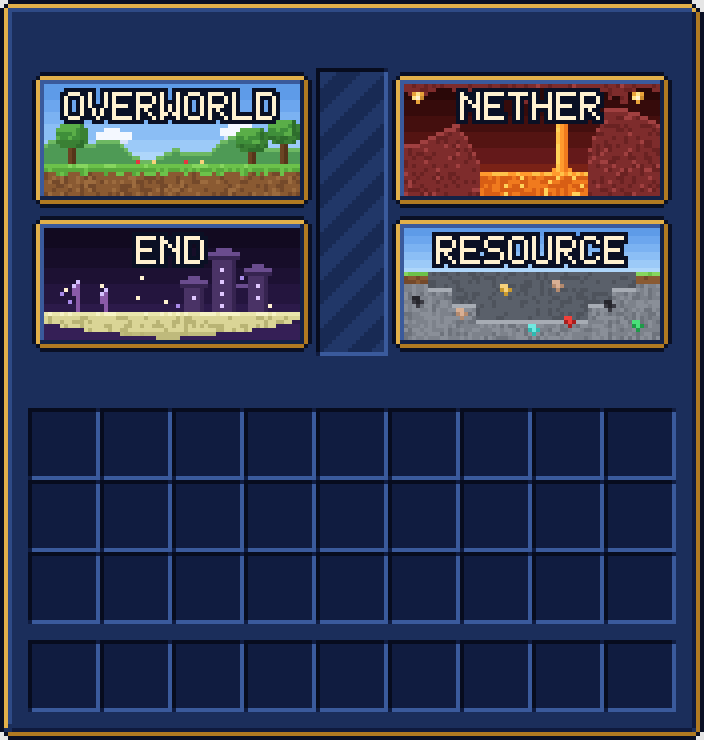
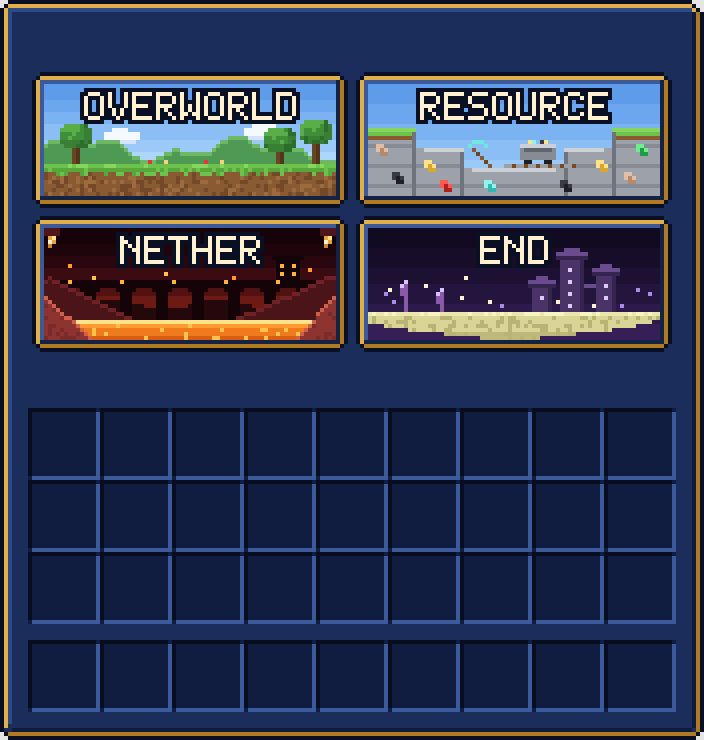
feat(menus): rtp picker tiles meet in the middle, new nether and quarry art
Tiles reorder to Overworld/Resource on top, Nether/End below. New scene option reach (left/right) draws a tile half a cell past its click cells so the two columns meet with a 2 px gap; validation keeps the reached column free of items. Nether is now a layered vista with a fortress bridge over a lava sea; Resource is an open-pit quarry with ledges, ore veins, a minecart and a pickaxe.

Changed region(s): [[0.0625, 0.0932, 0.9375, 0.4973]]

diff --git a/menus/figma/lib.js b/menus/figma/lib.js
@@ -399,7 +399,6 @@ function band(r, x0, y0, w, h, ramp) {  // vertical gradient over the top h rows
   for (let j = 0; j < h; j++) r.rect(x0, y0 + j, w, 1, ramp[Math.min(ramp.length - 1, Math.floor(j / h * ramp.length))]);
 }
 const DAY = ['5E9BE8', '6CA6EE', '7BB2F2', '8BBEF5', '9CCAF8', 'AED6FA'];
-const RACK = ['A04040', '6A2222', '7E2C2C'];
 const SCENES = {
   overworld(r, x0, y0, w, h) {
     const g = h - 8, set = (x, y, c) => r.set(x0 + x, y0 + y, c);
@@ -430,28 +429,39 @@ const SCENES = {
     }
     for (const fx of [Math.round(w * 0.36), Math.round(w * 0.55)]) { set(fx, g - 1, 'E8343F'); set(fx + 4, g - 1, 'F7D27A'); }
   },
-  nether(r, x0, y0, w, h) {
-    const set = (x, y, c) => r.set(x0 + x, y0 + y, c), lava = h - 6, rack = (x, y) => {
-      const n = hash(x, y, 3); return n < 0.08 ? RACK[0] : n < 0.3 ? RACK[1] : RACK[2];
-    };
-    band(r, x0, y0, w, h, ['2A0808', '360B0B', '440F0E', '541412', '64191A', '7A2216', '8E2E14']);
-    for (let x = 0; x < w; x++) for (let y = lava; y < h; y++) {  // lava sea, the cliffs are drawn over it
+  nether(r, x0, y0, w, h) {  // layered cliffs darker toward the back, a fortress bridge, a lava sea
+    const set = (x, y, c) => r.set(x0 + x, y0 + y, c), sea = h - 5;
+    band(r, x0, y0, w, sea, ['16030A', '1E050C', '2A070E', '3A0B10', '521212', '6E1A14', '8A2A16']);
+    for (const [ex, ey, c] of [[6, 9, 'FF9A2E'], [12, 12, 'FFC24A'], [66, 10, 'FF9A2E'], [30, 11, 'FFC24A'], [47, 12, 'FF9A2E']]) set(Math.round(ex / 73 * w), ey, c);  // embers
+    const ridge = (x, base, a, f, p) => Math.round(base + a * Math.sin(x * f + p));
+    for (let x = 0; x < w; x++) for (let y = ridge(x, 19, 1.5, 0.23, 1); y < sea; y++) set(x, y, '24080C');  // far ridge
+    const deck = 13, tx = Math.round(w * 0.8), brick = '140408';  // fortress bridge against the glow: deck, arches, a tower
+    r.rect(x0, y0 + deck, w, 2, brick);
+    for (let px = 1; px < w; px += 9) {
+      r.rect(x0 + px, y0 + deck + 2, 3, sea - deck - 2, brick);
+      set(px - 1, deck + 2, brick); set(px + 3, deck + 2, brick);  // arch shoulders
+    }
+    r.rect(x0 + tx, y0 + deck - 5, 6, 5, brick); r.rect(x0 + tx - 1, y0 + deck - 6, 8, 1, brick);
+    for (const [wx, wy] of [[1, 1], [4, 1], [1, 3], [4, 3]]) set(tx + wx, deck - 5 + wy, 'FFB040');
+    for (let x = 6; x < w; x += 13) set(x, deck, 'FFB040');  // lit windows along the deck
+    const mid = (x, ox, d) => 12 + Math.round(Math.abs(x - ox) * d);
+    for (let x = 0; x < w; x++) {  // middle cliffs, left and right
+      const top = Math.min(mid(x, 1, 0.5), mid(x, w - 2, 0.45));
+      for (let y = top; y < sea; y++) set(x, y, y === top ? '6E2226' : '4A1418');
+    }
+    r.rect(x0, y0 + sea, w, 1, 'FFE38A');  // lava: bright edge, then warm bands with ripples
+    for (let y = sea + 1; y < h; y++) for (let x = 0; x < w; x++) {
       const n = hash(x, y, 5);
-      set(x, y, y === lava ? (n < 0.5 ? 'FFC24A' : 'FF9A2E') : n < 0.12 ? 'FFD25A' : n < 0.5 ? 'F07A1E' : 'D85E14');
+      set(x, y, n < 0.1 ? 'FFC24A' : y === sea + 1 ? 'FF9A2E' : y < h - 1 ? 'F07A1E' : 'D85E14');
     }
-    const fx = Math.round(w * 0.6);  // lava fall from the ceiling into the sea
-    for (let y = 3; y < lava; y++) { set(fx, y, hash(fx, y, 6) < 0.5 ? 'FFD25A' : 'FFC24A'); set(fx + 1, y, 'FF9A2E'); set(fx + 2, y, 'F07A1E'); }
-    for (const dx of [-1, 3]) set(fx + dx, lava - 1, 'FF9A2E');  // splash
-    const lEdge = Math.round(w * 0.3), rEdge = Math.round(w * 0.7);
-    for (let x = 0; x < w; x++) {
-      const c = 2 + Math.round(1.2 * Math.sin(x * 0.5)) + (hash(x, 0, 4) < 0.2 ? 2 : 0);  // ceiling with drips
-      for (let y = 0; y < c; y++) set(x, y, rack(x, y));
-      const l = Math.round(lava - 10 + 3 * Math.cos(x * 0.18));  // cliff tops slope down into the lava
-      const top = x < lEdge ? l + Math.max(0, x - lEdge + 6) * 2 : x > rEdge ? l - 3 + Math.max(0, rEdge + 5 - x) * 2 : h;
-      for (let y = Math.max(c, top); y < h; y++) set(x, y, y === top ? RACK[0] : rack(x, y));
+    for (let x = 0; x < w; x++) {  // front cliffs, brightest, with a lava-lit rim
+      const top = Math.min(17 + Math.round(x * 0.9), 17 + Math.round((w - 1 - x) * 1.1));
+      for (let y = top; y < h; y++) set(x, y, y === top ? 'D0604A' : hash(x, y, 3) < 0.2 ? '7A2A28' : '8E3430');
     }
-    for (const [gx, gy] of [[2, 2], [w - 7, 2]]) for (const [i, j, c] of [[0, 0, 'E8A33A'], [1, 0, 'FFE38A'], [2, 0, 'E8A33A'],
-      [0, 1, 'FFE38A'], [1, 1, 'FFF1D0'], [2, 1, 'C98A2E'], [1, 2, 'E8A33A']]) set(gx + i, gy + j, c);  // glowstone
+    for (const gx of [0, w - 4]) {  // glowstone hanging from netherrack in the top corners
+      r.rect(x0 + gx, y0, 4, 2, '4E161A');
+      for (const [i, j, c] of [[1, 2, 'E8A33A'], [2, 2, 'FFE38A'], [1, 3, 'FFF1D0'], [2, 3, 'E8A33A'], [1, 4, 'C98A2E']]) set(gx + i, j, c);
+    }
   },
   end(r, x0, y0, w, h) {
     const set = (x, y, c) => r.set(x0 + x, y0 + y, c), g = h - 7;
@@ -480,36 +490,58 @@ const SCENES = {
       }
     }
   },
-  quarry(r, x0, y0, w, h) {
-    const set = (x, y, c) => r.set(x0 + x, y0 + y, c), sky = 11, step = 6;
-    band(r, x0, y0, w, sky, DAY);
-    for (let x = 0; x < w; x++) {  // a pit cut in terraces, 4 px per step
-      const k = Math.min(Math.floor(x / step), Math.floor((w - 1 - x) / step), 3), top = sky + 4 * k;
-      for (let y = sky; y < h; y++) {
-        const n = hash(x, y, 9);
-        if (y < top) set(x, y, n < 0.3 ? '4E535C' : '5A606A');  // back wall
-        else if (k === 0 && y === top) set(x, y, n < 0.3 ? '86D65E' : '6CC24A');
-        else if (k === 0 && y <= top + 2) set(x, y, n < 0.4 ? '74492A' : '8A5A32');
-        else if (y === top) set(x, y, 'A7ACB4');
-        else set(x, y, n < 0.2 ? '6E737C' : n < 0.6 ? '8A8F98' : '7D828B');
+  quarry(r, x0, y0, w, h) {  // an open pit in cross-section: grass rim, stone ledges down to a floor, ores, cart, pickaxe
+    const set = (x, y, c) => r.set(x0 + x, y0 + y, c), rim = 11, step = 5, sw = 12;
+    band(r, x0, y0, w, h, DAY);
+    const level = x => Math.min(Math.floor(x / sw), Math.floor((w - 1 - x) / sw), 2);  // 0 rim, 1 ledge, 2 floor
+    for (let x = 0; x < w; x++) {
+      const k = level(x), top = rim + step * k;
+      for (let y = rim; y < h; y++) {
+        if (y < top) continue;  // open air over the lower steps
+        if (k === 0 && y < top + 3) set(x, y, y === top ? '86D65E' : y === top + 1 ? '6CC24A' : '8A5A32');
+        else if (y === top) set(x, y, 'CDD1D7');
+        else set(x, y, (y - top) % 5 === 4 ? '868B94' : '9DA2AA');
       }
     }
-    const ORE = { coal: ['26262C', '3A3A42'], iron: ['D8AF93', 'B48A6E'], gold: ['F7D27A', 'C99A2E'], diamond: ['6FE8E0', '2EB8B0'],
-      redstone: ['F0403A', 'A81E1E'], emerald: ['4AE07A', '1E9A48'] };
-    for (const [ore, fx, oy] of [['coal', 0.04, 17], ['iron', 0.22, 20], ['gold', 0.4, 14], ['diamond', 0.5, 24],
-      ['redstone', 0.66, 22], ['coal', 0.82, 18], ['emerald', 0.93, 23], ['iron', 0.6, 13]]) {
-      const ox = Math.round(fx * (w - 3)), [hi, lo] = ORE[ore];
-      for (const [i, j, c] of [[0, 0, hi], [1, 0, hi], [0, 1, lo], [1, 1, hi], [2, 1, lo], [1, 2, lo]]) set(ox + i, Math.min(h - 1, oy + j), c);
+    for (let x = 1; x < w; x++) {  // risers: the upper step's edge column in shade, the lower ledge darker at its foot
+      const a = level(x - 1), b = level(x);
+      if (a === b) continue;
+      const hiX = a > b ? x : x - 1, dir = a > b ? -1 : 1, lowTop = rim + step * Math.max(a, b);
+      for (let y = rim + step * Math.min(a, b) + 1; y < h; y++) set(hiX, y, '6E737C');
+      for (let i = 1; i <= 2; i++) set(hiX + dir * i, lowTop, '9DA2AA');
     }
+    const ORE = { coal: ['3A3A42', '1E1E24'], iron: ['E2BFA4', 'B48A6E'], gold: ['FFE38A', 'D9A62E'], diamond: ['8FF4EC', '2EB8B0'],
+      redstone: ['FF5A50', 'B01E1E'], emerald: ['6AF08E', '1E9A48'] };
+    const vein = (ore, ox, oy) => { const [hi, lo] = ORE[ore];
+      for (const [i, j, c] of [[0, 0, hi], [1, 0, hi], [0, 1, hi], [1, 1, lo], [2, 1, hi], [1, 2, lo], [2, 2, lo]]) set(ox + i, oy + j, c); };
+    vein('iron', 2, 15); vein('coal', 6, 22); vein('gold', 14, 19); vein('redstone', 18, 24); vein('diamond', 29, 24);
+    vein('coal', w - 25, 24); vein('gold', w - 16, 19); vein('emerald', w - 6, 15); vein('iron', w - 9, 22);
+    const rx = Math.round(w * 0.52), floor = rim + step * 2;  // rail with a loaded minecart on the floor
+    for (let x = rx - 4; x < rx + 14; x++) set(x, floor - 1, x % 3 ? '9AA0A8' : '7A4A1E');
+    r.rect(x0 + rx, y0 + floor - 6, 9, 1, 'CDD1D7'); r.rect(x0 + rx, y0 + floor - 5, 9, 3, '868B94');
+    r.rect(x0 + rx + 1, y0 + floor - 5, 7, 1, '5F656F');
+    for (const [i, c] of [[2, 'FFE38A'], [3, '8FF4EC'], [5, '3A3A42'], [6, 'FFE38A']]) set(rx + i, floor - 7, c);
+    for (const i of [1, 6]) { set(rx + i, floor - 2, '1E1E24'); set(rx + i + 1, floor - 2, '1E1E24'); }
+    const px = 2 * sw + 2;  // pickaxe leaning on the ledge riser
+    for (let i = 0; i < 5; i++) set(px + 4 - i, floor - 1 - i, i % 2 ? '6B4423' : '8A5A32');
+    for (const [i, j] of [[-1, -6], [0, -7], [1, -7], [2, -7], [3, -6]]) set(px + i, floor + j, '6FE8E0');
   },
 };
 function outlinedText(r, s, x, y) {  // cream caps with a full 1 px outline, readable over any picture
   for (let j = -1; j <= 1; j++) for (let i = -1; i <= 1; i++) if (i || j) drawText(r, s, x + i, y + j, C.O);
   drawText(r, s, x, y, C.cream);
 }
-function scene(r, name, label, cx, cy, cw, ch) {
-  const paint = SCENES[name]; if (!paint) throw new Error('scene ' + name);
-  const x = cellX(cx) + 1, y = cellY(cy) + 1, w = CELL * cw - 2, h = CELL * ch - 2;
+// reach 'left' / 'right': the tile is drawn half a cell (9 px) past its cells on that side, so two tiles reaching into
+// the same column meet with the usual 2 px gap; the click cells stay whole (spec validation keeps that column empty).
+const REACH = CELL / 2;
+function sceneBox(e) {
+  const r = e.reach ? REACH : 0;
+  return { x: cellX(e.x) + 1 - (e.reach === 'left' ? r : 0), y: cellY(e.y) + 1, w: CELL * (e.w || 1) - 2 + r, h: CELL * (e.h || 1) - 2 };
+}
+function scene(r, e) {
+  const paint = SCENES[e.style]; if (!paint) throw new Error('scene ' + e.style);
+  if (e.reach && e.reach !== 'left' && e.reach !== 'right') throw new Error('scene reach ' + e.reach);
+  const { x, y, w, h } = sceneBox(e), label = e.label, cw = e.w || 1;
   if (textWidth(label) > w - 10) throw new Error('label too wide for ' + cw + ' cells: ' + label);
   plate(r, x, y, w, h, CARD.navy);
   paint(r, x + 3, y + 3, w - 6, h - 6);
@@ -527,7 +559,7 @@ function drawElement(r, e) {
   else if (e.type === 'slot') slotRings(r, e.x, e.y, w, h, e.style);
   else if (e.type === 'arrow') { arrow(r, e.icon, e.x, e.y); clearStarsAround(r, cellX(e.x) + 1, cellY(e.y) + 1, 16, 16); }
   else if (e.type === 'text') text(r, e.label, e.color, e.x, e.y, w);
-  else if (e.type === 'scene') { scene(r, e.style, e.label, e.x, e.y, w, h); clearStarsAround(r, cellX(e.x) + 1, cellY(e.y) + 1, CELL * w - 2, CELL * h - 2); }
+  else if (e.type === 'scene') { scene(r, e); const b = sceneBox(e); clearStarsAround(r, b.x, b.y, b.w, b.h); }
   else throw new Error('element type ' + e.type);
 }
 function drawMenu(r, menu) {

diff --git a/menus/build.py b/menus/build.py
@@ -71,9 +71,10 @@ ARROW_ICONS = ('up', 'down')
 SLOT_STYLES = ('pedestal', 'reel')  # absent = plain vanilla slot rings
 TEXT_COLORS = ('cream', 'gold')
 SCENE_STYLES = ('overworld', 'nether', 'end', 'quarry')  # landscape painters in lib.js SCENES
+REACH_SIDES = ('left', 'right')  # a scene drawn half a cell past its cells on that side (lib.js sceneBox)
 LABEL_MAX = {2: 4, 3: 7, 4: 10}  # button width in cells -> max label characters
 # a typo such as "shift_rigth" must fail validation instead of silently dropping the action
-ELEMENT_KEYS = {'type', 'x', 'y', 'w', 'h', 'style', 'color', 'icon', 'label', 'item'}
+ELEMENT_KEYS = {'type', 'x', 'y', 'w', 'h', 'style', 'color', 'icon', 'label', 'item', 'reach'}
 ITEM_KEYS = {'key', 'name', 'lore', 'material', *ACTIONS}
 MENU_KEYS = {'id', 'glyph', 'rows', 'title', 'open_command', 'elements', 'dynamic', 'renderer'}
 SPEC_KEYS = {'menus', 'commands'}
@@ -187,8 +188,13 @@ def _check_elements(m, ids, mods):
             label = e.get('label')
             need(i, isinstance(label, str) and label, 'label is required')
             need(i, w >= 2 and h >= 2, 'w and h must be >= 2')
+            reach = e.get('reach')
+            need(i, reach is None or reach in REACH_SIDES, f'reach must be one of {REACH_SIDES}')
+            need(i, reach != 'left' or x >= 1, 'reach left needs a column to the left')
+            need(i, reach != 'right' or x + w <= 8, 'reach right needs a column to the right')
             # 5 px caps + 1 px spacing must fit the picture (lib.js scene(): tile width - 10)
-            need(i, len(label) <= (CELL * w - 11) // 6, f'label too long ({len(label)} > {(CELL * w - 11) // 6} for w={w})')
+            most = (CELL * w + (CELL // 2 if reach else 0) - 11) // 6
+            need(i, len(label) <= most, f'label too long ({len(label)} > {most} for w={w})')
         elif t == 'arrow':
             need(i, e.get('icon') in ARROW_ICONS, f'icon must be one of {ARROW_ICONS}')
             need(i, w == 1 and h == 1, 'w and h must be 1')
@@ -196,6 +202,7 @@ def _check_elements(m, ids, mods):
             need(i, e['style'] in SLOT_STYLES, f'style must be one of {SLOT_STYLES}')
             # the reel highlights its middle cell, so it needs one
             need(i, e['style'] != 'reel' or (h == 1 and w % 2 == 1), 'a reel must be one row with an odd width')
+        need(i, t == 'scene' or 'reach' not in e, 'reach is only allowed on scene elements')
         if 'item' not in e:
             continue
         need(i, t in CLICKABLE, f'type {t} cannot carry an item')
@@ -230,6 +237,15 @@ def _check_elements(m, ids, mods):
         for i, e in enumerate(els):
             k = e.get('item', {}).get('key', '')
             need(i, not reserved.fullmatch(k), f'item key {k!r} is reserved for menus/warps_sync.py')
+    # a scene's reach covers half of the next column: only another scene reaching in from the other side may share it
+    for i, e in enumerate(els):
+        if e['type'] != 'scene' or 'reach' not in e:
+            continue
+        col = e['x'] - 1 if e['reach'] == 'left' else e['x'] + e['w']
+        half = {(col, r) for r in range(e['y'], e['y'] + e['h'])}
+        for j, o in enumerate(els):
+            ok = o['type'] == 'scene' and o.get('reach') == ('right' if e['reach'] == 'left' else 'left')
+            need(i, j == i or ok or not half & set(cells(o)), f'reach overlaps element {j}')
     # rule 3: items never share a cell; a hole never sits under a drawn button
     items = [(i, set(cells(e))) for i, e in enumerate(els) if 'item' in e]
     for (_, a), (j, b) in itertools.combinations(items, 2):
@@ -484,7 +500,7 @@ def layouts(spec_path=SPEC, mod_out=MOD_OUT):
 # Only what lib.js/menus.js draw from: item names, lore, clicks, glyphs and commands never reach Figma, and embedding
 # them pushed menus.run.js past FIGMA_MAX.
 FIGMA_MENU_KEYS = ('id', 'rows', 'title', 'open_command')
-FIGMA_ELEMENT_KEYS = ('type', 'x', 'y', 'w', 'h', 'style', 'color', 'icon', 'label')
+FIGMA_ELEMENT_KEYS = ('type', 'x', 'y', 'w', 'h', 'style', 'color', 'icon', 'label', 'reach')
 
 
 PREVIEW_STEP = WIDTH * 4 + 80  # menus.js lays the 4x previews side by side
@@ -717,6 +733,14 @@ def selftest():
     _rejects(mutated(lambda m: m['elements'].append({**sc, 'label': 'ABCDEFGHIJK'})), 'label too long')
     _rejects(mutated(lambda m: m['elements'].append({**sc, 'h': 1})), 'w and h must be >= 2')
     _rejects(mutated(lambda m: m['elements'].extend([sc, {'type': 'slot', 'x': 1, 'y': 1}])), 'hole sits under')
+    pair = [{**sc, 'reach': 'right'}, {**sc, 'x': 5, 'reach': 'left', 'item': {'key': 's2', 'name': 'n'}}]
+    mutated(lambda m: m['elements'].extend(pair))()  # two scenes meeting in column 4
+    _rejects(mutated(lambda m: m['elements'].append({**sc, 'reach': 'up'})), 'reach must be')
+    _rejects(mutated(lambda m: m['elements'].append({**sc, 'reach': 'left'})), 'reach left needs')
+    _rejects(mutated(lambda m: m['elements'].append({**sc, 'x': 5, 'reach': 'right'})), 'reach right needs')
+    _rejects(mutated(lambda m: btn(m).update(reach='left')), 'only allowed on scene')
+    _rejects(mutated(lambda m: m['elements'].extend([{**sc, 'reach': 'right'}, {'type': 'slot', 'x': 4, 'y': 1}])),
+             'reach overlaps')
     _rejects(mutated(lambda m: m['elements'].append({'type': 'slot', 'style': 'reel', 'x': 0, 'y': 0, 'w': 4})), 'odd width')
     _rejects(mutated(lambda m: m['elements'].extend([{'type': 'slot', 'x': 0, 'y': 0, 'item': {'key': 'g', 'name': 'n',
              'material': 'STONE'}}, {'type': 'slot', 'x': 2, 'y': 0, 'item': {'key': 'g', 'name': 'n', 'material': 'STONE'}}])),
@@ -866,7 +890,8 @@ def selftest():
                                                          'discord_cmd', 'help_cmd']
         worlds = ymenu('rtp_worlds')
         assert worlds['size'] == 36 and 'open_command' not in worlds
-        assert worlds['items']['resource']['slots'] == [23, 24, 25, 26, 32, 33, 34, 35]
+        assert worlds['items']['resource']['slots'] == [5, 6, 7, 8, 14, 15, 16, 17]
+        assert not any(s in it['slots'] for it in worlds['items'].values() for s in (4, 13, 22, 31))
         assert worlds['items']['resource']['click_commands'] == ['[close]', '[player] rtp resource']
         assert worlds['items']['overworld']['model_data'] == 7300
         assert ymenu('menu')['items']['rtp']['click_commands'] == ['[openguimenu] rtp_worlds']
